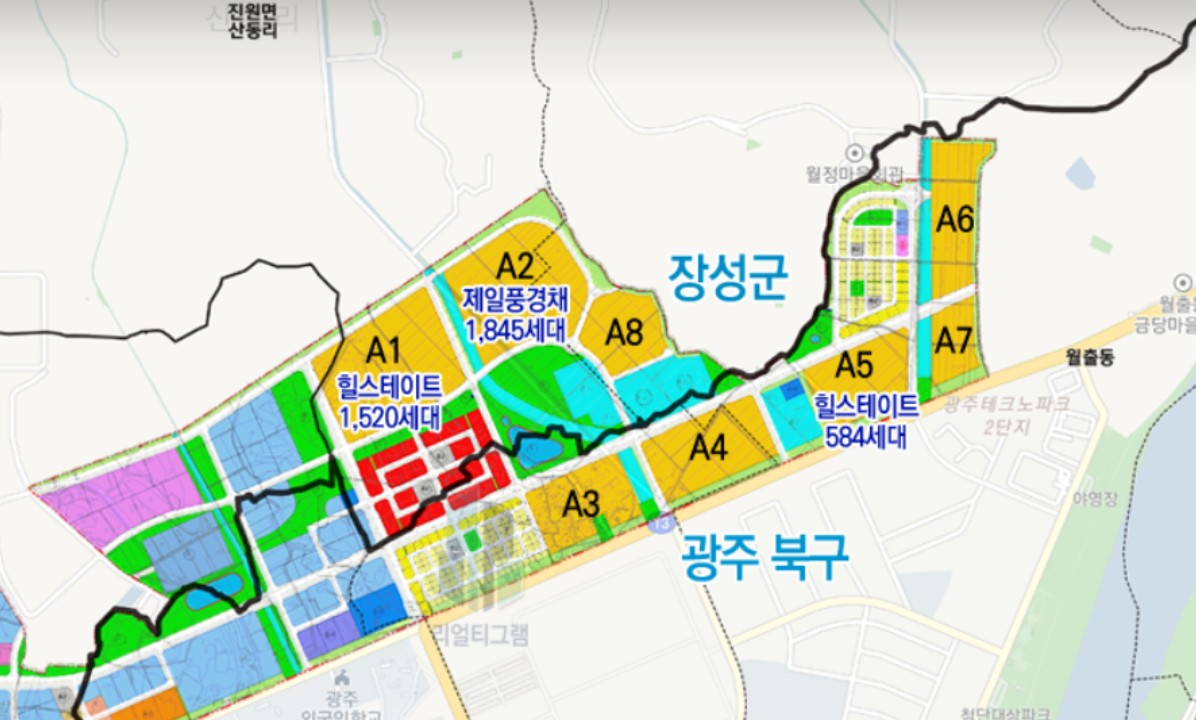
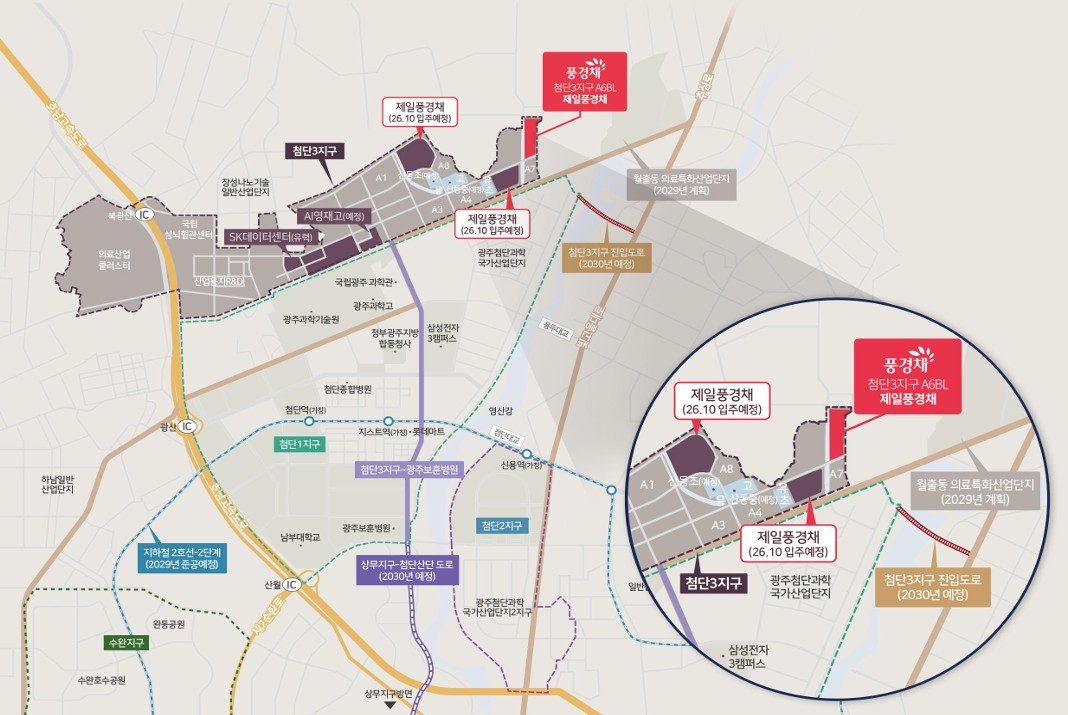
THE LAST EDITION 이미지를 첨단3지구 A6BL 광역 위치도로 교체

diff --git a/index.html b/index.html
@@ -213,11 +213,11 @@
 <section class="sec edition" id="edition">
   <div class="wrap split">
     <figure class="shot reveal">
-      <button class="shot-btn" type="button" data-lightbox="images/district-map.jpg" data-caption="첨단3지구 지구계획도 (A1~A8블록)" aria-label="지구계획도 크게 보기">
-        <img src="images/district-map.jpg" alt="첨단3지구 A1~A8블록 지구계획도" loading="lazy">
+      <button class="shot-btn" type="button" data-lightbox="images/district-map.jpg" data-caption="첨단3지구 A6BL 광역 위치도" aria-label="광역 위치도 크게 보기">
+        <img src="images/district-map.jpg" alt="제일풍경채 첨단3지구 A6BL 광역 위치도" loading="lazy">
         <span class="zoom-hint">클릭하여 크게 보기</span>
       </button>
-      <figcaption>광주연구개발특구 첨단3지구 지구계획도 · A6블록</figcaption>
+      <figcaption>첨단3지구 A6BL 광역 위치도 · 제일풍경채 브랜드타운</figcaption>
     </figure>
 
     <div class="copy">
